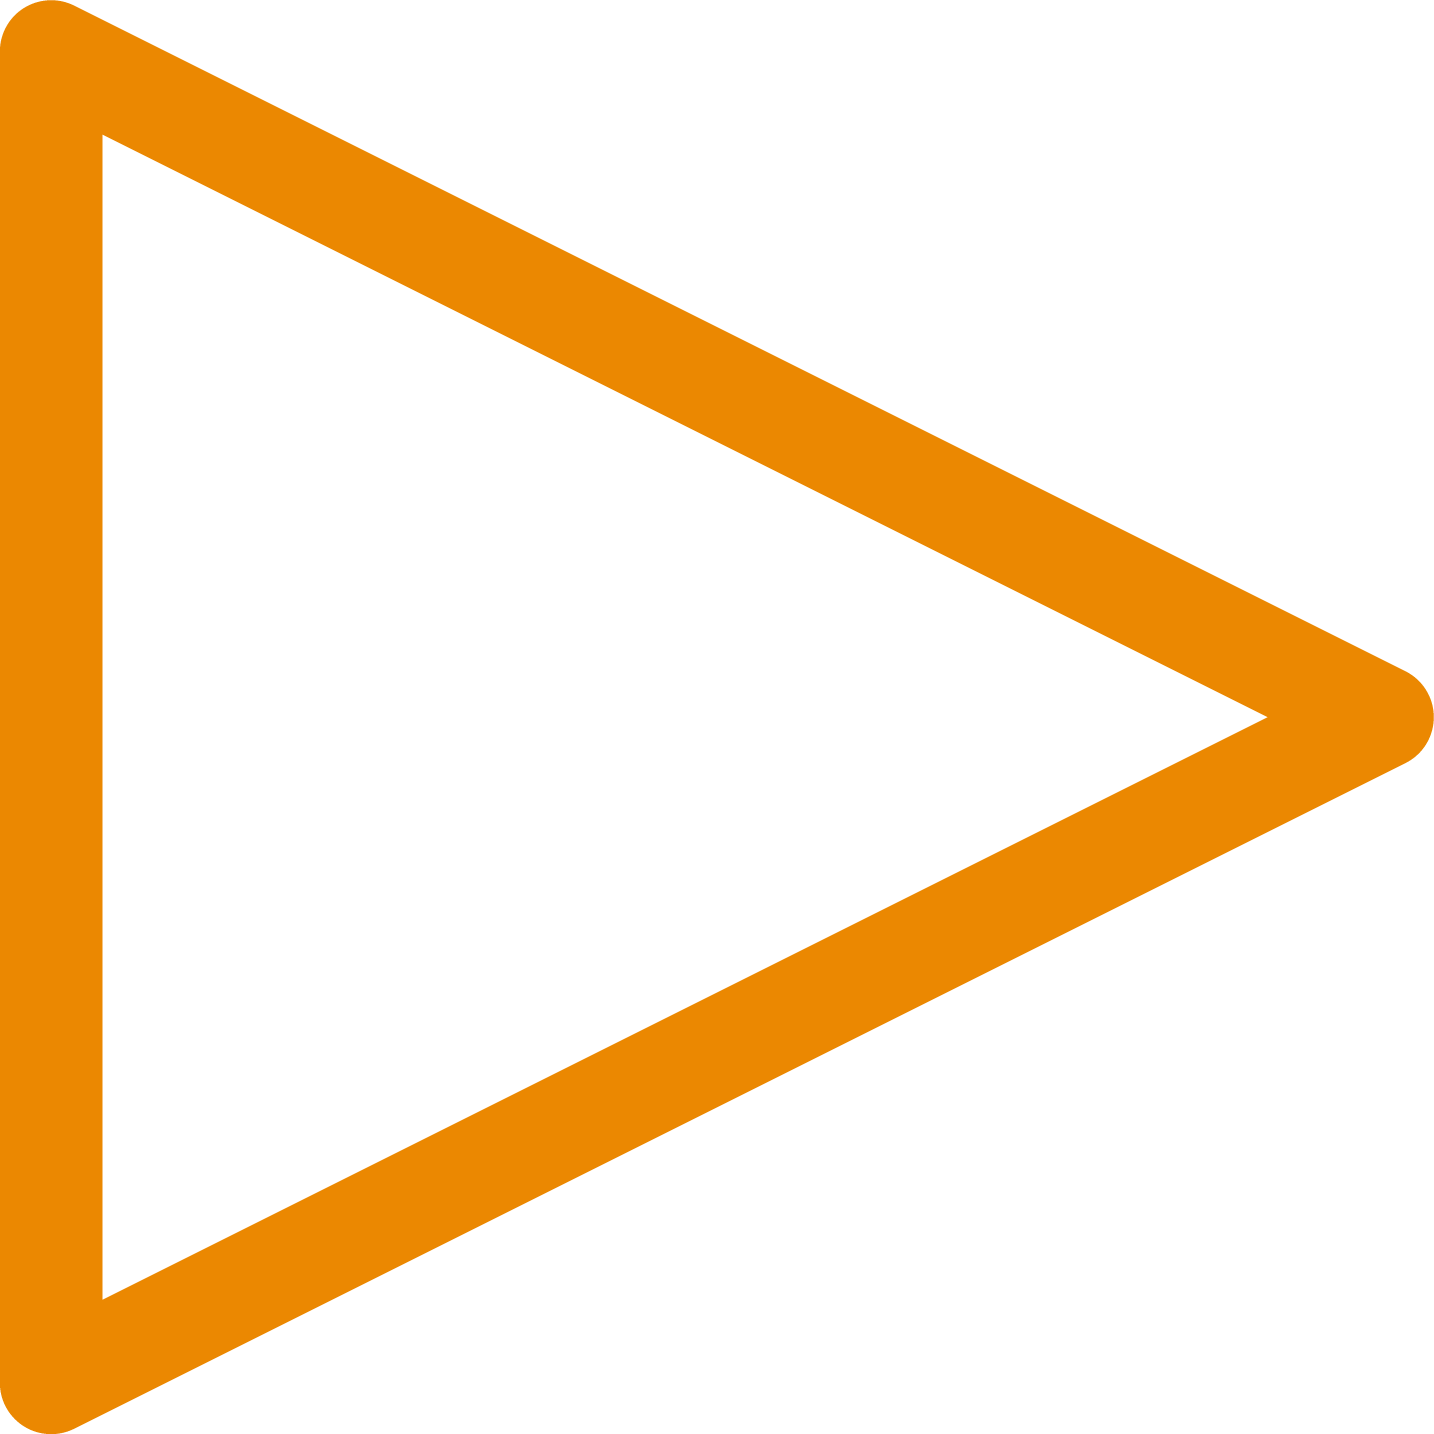
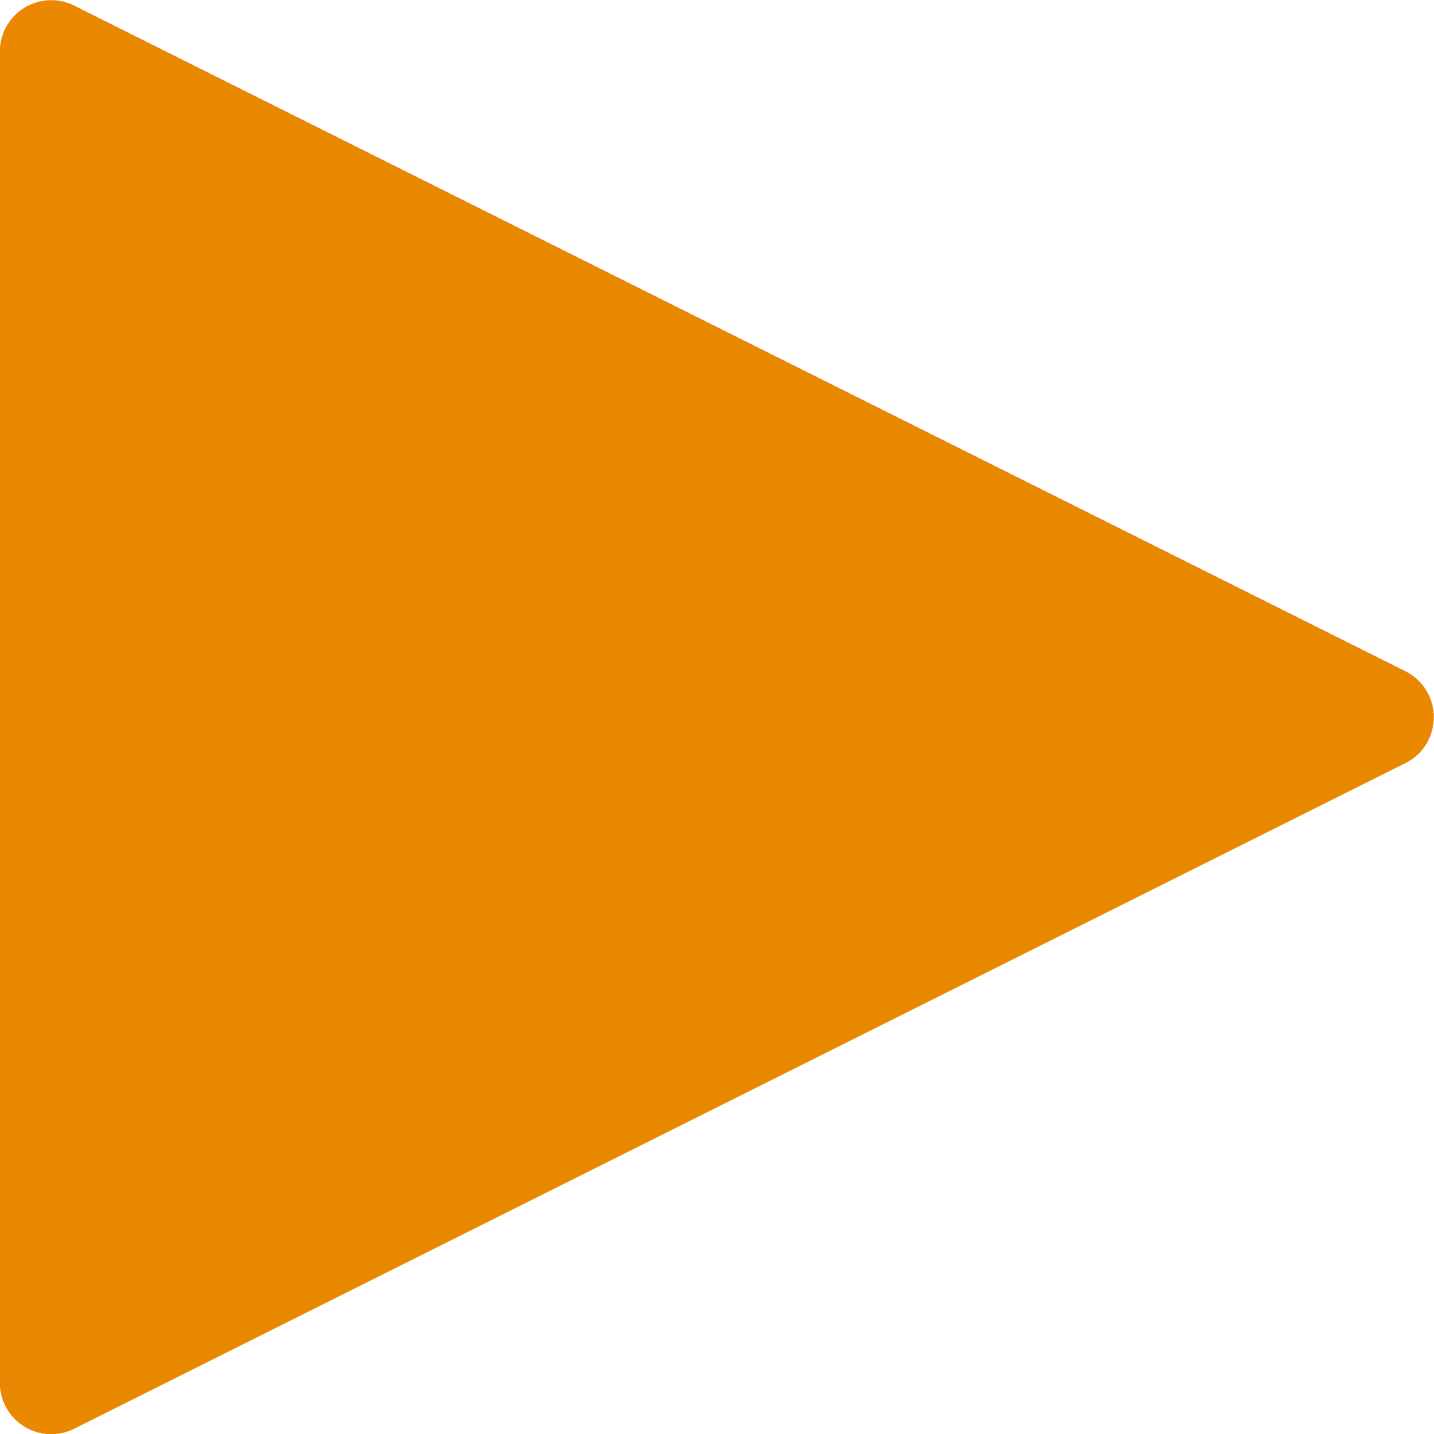
lotta changes

diff --git a/style.css b/style.css
@@ -6,6 +6,10 @@
   display: none;
 }
 
+.hide3 {
+  opacity: 0;
+}
+
 .blur {
   -webkit-filter: blur(1px) grayscale(1);
           filter: blur(1px) grayscale(1);
@@ -19,6 +23,16 @@ h2 {
   -webkit-text-stroke: 0.1px #EB8801;
   font-family: "Playfair Display";
   opacity: 0.4;
+}
+
+::-moz-selection {
+  color: #fff;
+  background: #EB8801;
+}
+
+::selection {
+  color: #fff;
+  background: #EB8801;
 }
 
 * {
@@ -46,12 +60,14 @@ nav {
   height: 0.5rem;
   border-bottom: 4px solid #EB8801;
   border-top: 4px solid #EB8801;
-  -webkit-transition: border-color 0.4s;
-  transition: border-color 0.4s;
+  -webkit-transition: all 0.4s;
+  transition: all 0.4s;
 }
 
 nav:hover {
   cursor: pointer;
+  -webkit-filter: brightness(110%);
+          filter: brightness(110%);
 }
 
 .overlay {
@@ -133,20 +149,63 @@ nav:hover {
   margin: auto;
   width: 100px;
   height: 100px;
-  border: 6.5px solid #EB8801;
-  padding: 15px;
-  border-radius: 50%;
   background-position: center;
   background-image: url(images/play-button.png);
   background-size: 75px 75px;
   background-repeat: no-repeat;
   -webkit-transition: 0.4s;
   transition: 0.4s;
+  cursor: pointer;
+}
+
+.landing-page .play-album .streaming {
+  position: absolute;
+  bottom: 100%;
+  opacity: 1;
+  display: -webkit-box;
+  display: -ms-flexbox;
+  display: flex;
+  -webkit-box-orient: vertical;
+  -webkit-box-direction: normal;
+      -ms-flex-direction: column;
+          flex-direction: column;
+  left: 10px;
+}
+
+.landing-page .play-album .streaming a {
+  background-position: center;
+  background-size: contain;
+  background-repeat: no-repeat;
+  width: 75px;
+  height: 75px;
+  margin-bottom: 1rem;
+  text-align: center;
+  -webkit-filter: grayscale(50%);
+          filter: grayscale(50%);
+  -webkit-transition: 0.4s;
+  transition: 0.4s;
+}
+
+.landing-page .play-album .streaming a:hover {
+  -webkit-filter: grayscale(0%);
+          filter: grayscale(0%);
+}
+
+.landing-page .play-album .streaming a:nth-of-type(1) {
+  background-image: url(images/apple.png);
+}
+
+.landing-page .play-album .streaming a:nth-of-type(2) {
+  background-image: url(images/spotify.png);
+}
+
+.landing-page .play-album .streaming a:nth-of-type(3) {
+  background-image: url(images/youtube.png);
 }
 
 .landing-page .play-album:hover {
-  background-color: #B24401;
-  cursor: pointer;
+  -webkit-filter: brightness(110%);
+          filter: brightness(110%);
 }
 
 .landing-page #exp-date {
@@ -386,6 +445,26 @@ nav:hover {
     height: 100vh;
     background-size: cover;
   }
+  .landing-page .play-album .streaming {
+    left: 20px;
+  }
+  .landing-page .play-album .streaming a {
+    width: 55px;
+    height: 55px;
+  }
+  .landing-page .play-album .streaming a:hover {
+    -webkit-filter: grayscale(0%);
+            filter: grayscale(0%);
+  }
+  .landing-page .play-album .streaming a:nth-of-type(1) {
+    background-image: url(images/apple.png);
+  }
+  .landing-page .play-album .streaming a:nth-of-type(2) {
+    background-image: url(images/spotify.png);
+  }
+  .landing-page .play-album .streaming a:nth-of-type(3) {
+    background-image: url(images/youtube.png);
+  }
   .landing-page #exp-date {
     font-size: 2rem;
     text-align: center;
@@ -437,6 +516,9 @@ nav:hover {
             align-items: center;
   }
   .contact-page img {
+    display: none;
+  }
+  .contact-page h2 {
     display: none;
   }
   .contact-page .contact-wrapper {

diff --git a/style.scss b/style.scss
@@ -12,6 +12,9 @@ $font-text: "Lora";
 .hide2 {
   display: none;
 }
+.hide3 {
+  opacity: 0;
+}
 .blur {
   filter: blur(1px) grayscale(1);
   opacity: 0.9;
@@ -23,6 +26,10 @@ h2 {
   -webkit-text-stroke: 0.1px $orange;
   font-family: $font-heading;
   opacity: 0.4;
+}
+::selection {
+  color: $white;
+  background: $orange;
 }
 
 //START
@@ -49,9 +56,10 @@ nav {
   height: 0.5rem;
   border-bottom: 4px solid $orange;
   border-top: 4px solid $orange;
-  transition: border-color 0.4s;
+  transition: all 0.4s;
   &:hover {
     cursor: pointer;
+    filter: brightness(110%);
   }
 }
 
@@ -113,18 +121,46 @@ nav {
     margin: auto;
     width: 100px;
     height: 100px;
-    border: 6.5px solid $orange;
-    padding: 15px;
-    border-radius: 50%;
     background-position: center;
     background-image: url(images/play-button.png);
     background-size:75px 75px;
     background-repeat: no-repeat;
     transition: 0.4s;
+    cursor: pointer;
+    .streaming {
+      position: absolute;
+      bottom: 100%;
+      opacity: 1;
+      display: flex;
+      flex-direction: column;  
+      left: 10px;    
+      a {
+        background-position: center;
+        background-size: contain;
+        background-repeat: no-repeat;
+        width: 75px;
+        height: 75px;
+        margin-bottom: 1rem;
+        text-align: center;
+        filter: grayscale(50%);
+        transition: 0.4s;
+      }
+      a:hover {
+        filter: grayscale(0%);
+      }
+      a:nth-of-type(1) {
+        background-image: url(images/apple.png);
+      }
+      a:nth-of-type(2) {
+        background-image: url(images/spotify.png);
+      }
+      a:nth-of-type(3) {
+        background-image: url(images/youtube.png);
+      }
+    }
   }
   .play-album:hover {
-    background-color: $darkorange;
-    cursor: pointer;
+    filter: brightness(110%);
   }
   #exp-date {
     margin-left: auto;
@@ -315,6 +351,28 @@ nav {
       height: 100vh;
       background-size: cover;
     }
+    .play-album {
+      .streaming {
+        left: 20px;
+        a {
+          width: 55px;
+          height: 55px;
+
+        }
+        a:hover {
+          filter: grayscale(0%);
+        }
+        a:nth-of-type(1) {
+          background-image: url(images/apple.png);
+        }
+        a:nth-of-type(2) {
+          background-image: url(images/spotify.png);
+        }
+        a:nth-of-type(3) {
+          background-image: url(images/youtube.png);
+        }
+      }
+    }
     #exp-date {
       font-size: 2rem;
       text-align: center;
@@ -371,6 +429,9 @@ nav {
     align-items: center;
     img {
      display: none;
+    }
+    h2 {
+      display: none;
     }
     .contact-wrapper {
       width: 100%;

diff --git a/index.html b/index.html
@@ -40,7 +40,12 @@
 
 <div class="landing-page" id="expiry-date">
   <div class="landing-img"></div>
-  <div class="play-album">
+  <div class="play-album hide3">
+    <div class="streaming hide">
+      <a class="apple" target="_blank" href="https://music.apple.com/us/album/expiration-date/1521452122"></a>
+      <a class="spotify" target="_blank" href="https://open.spotify.com/album/1mYYGeNI1VraBc1GkiFSDX?si=EeExEVzwRgmY3r1DjuiDvA"></a>
+      <a class="youtube" target="_blank" href="https://www.youtube.com/watch?v=HnLuRQpbRYE&list=PLEcesgHQLT9mzOC2sQvcnGL5kAUv59fm5"></a>
+    </div>
   </div>
   <p id="exp-date"></p>
 </div>

diff --git a/scripts.js b/scripts.js
@@ -29,7 +29,17 @@ $(".js-close").click(function() {
 
 $(".play-album").hover(function () {
   $(".landing-img").toggleClass("blur");
+  $(".play-album").toggleClass("hide3");
 });
+
+$(".landing-img").hover(function () {
+  $(".play-album").toggleClass("hide3");
+});
+
+$(".play-album").click(function () {
+  $(".streaming").toggleClass("hide");
+});
+
 
 
 
